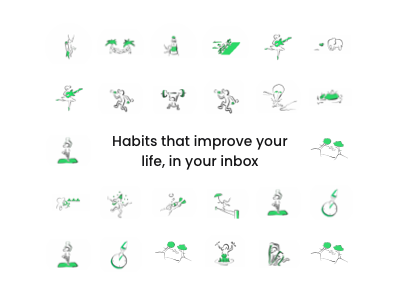
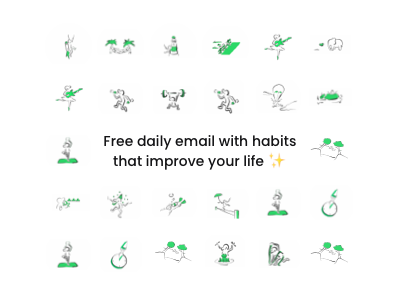
updates

Changed region(s): [[0.24, 0.45, 0.75, 0.57]]

diff --git a/assets/css/main.css b/assets/css/main.css
@@ -28,12 +28,12 @@ body{
 
 ::-moz-selection { /* Code for Firefox */
   color: #FFFFFF;
-  background: #000;
+  background: #2BD867;
 }
 
 ::selection {
   color: #FFFFFF;
-  background: #000;
+  background: #2BD867;
 }
 
 /********************/
@@ -41,18 +41,23 @@ body{
 /********************/
 
 h1{
-	
+	line-height: 1.2;
+	font-size: 2.4rem;
+	text-align: center;
+	font-weight: 300;
+	margin: 10% auto;
 }
 
 p{
 	line-height: 1.5;
-	font-size: 12px;
+	font-size: 1.2rem;
 	margin: 0;
 	padding: 0;
 	position: relative;
 	display: block;
 	width: 100%;
 	color: #757575;
+	text-align: center;
 }
 
 a{
@@ -63,8 +68,20 @@ a{
 	transition: all 0.5s;
 }
 
+a.green{
+	color: #2BD867;
+}
+
+a.green:hover{
+	color: #757575;
+}
+
 a:hover{
 	/*opacity: 0.1;*/
+}
+
+p span{
+	margin: 0 10px;
 }
 
 /******************/
@@ -130,23 +147,19 @@ a:hover{
 
 .grid{
 	/*border: 1px solid blue;*/
-	/*width: 100vw;
-	display: grid;
-  	grid-template-columns: repeat(9, 1fr);
-  	gap: 10px;
-  	grid-auto-rows: minmax(100px, auto);*/
+
   	display: grid;
   	grid-template-columns: repeat(auto-fit, minmax(60px, 1fr));
   	grid-template-rows: repeat(6, 60px);
   	grid-gap: 60px;
   	grid-auto-flow: dense;
-  	overflow: hidden;
 }
 
 .item{
 	/*border: 1px solid red;*/
+
 	transition: all 0.3s;
-	overflow: hidden;
+	/*overflow: hidden;*/
 
 	width: 100%;
 	height: 100%;
@@ -160,7 +173,7 @@ a:hover{
 
 .item:hover{
 	/*border: 1px solid green;*/
-	transform: scale(1.3);
+	transform: scale(1.5);
 	/*filter: grayscale(0);*/
 	z-index: 1;
 
@@ -173,7 +186,7 @@ a:hover{
 
 }
 
-img{
+.item a img{
 	width: 100%;
   height: auto;
   /* Magic! */
@@ -183,8 +196,15 @@ img{
 .container{
 	max-width: 600px;
 	margin: 0 auto;
-	/*padding: 0 20px;*/
 	padding: 32px;
+}
+
+.container img{
+	margin: 4% auto;
+	display: block;
+	width: 130px;
+	height: 130px;
+
 }
 
 footer{
@@ -196,7 +216,8 @@ footer{
 }
 
 footer p{
-	text-align: right;
+	text-align: center;
+	font-size: 12px;
 }
 
 footer a{
@@ -233,41 +254,54 @@ li{
 
 @media (min-width: 640px) {
 	.wrapper{
-	/*width: 100%;*/
-	width: 70vw;
-	max-width: 1006px;
-	height: 100%;
-	max-height: 85vh;
+		/*width: 100%;*/
+		/*width: 70vw;*/
+		width: 50vw;
+		max-width: 700px;
+		min-width: 700px;
+		height: 100%;
+		/*max-height: 85vh;*/
+		max-height: 90vh;
 
-	/*border: 1px solid green;*/
+		/*border: 1px solid green;*/
 
-	align-items: center;
-	justify-content: center;
+		align-items: center;
+		justify-content: center;
 
 
-	overflow: hidden;
-	/*margin: 10vh auto 0;*/
-/*
-	width: 90vw;
-	height: 90vh;
-	margin: 0 auto;
+		overflow: hidden;
+		/*margin: 10vh auto 0;*/
+	/*
+		width: 90vw;
+		height: 90vh;
+		margin: 0 auto;
 
-	border: 1px solid red;
-	position: relative;*/
+		border: 1px solid red;
+		position: relative;*/
 
 	}
 	.grid{
-	/*border: 1px solid blue;*/
-	/*width: 100vw;
-	display: grid;
-  	grid-template-columns: repeat(9, 1fr);
-  	gap: 10px;
-  	grid-auto-rows: minmax(100px, auto);*/
-  	display: grid;
-  	grid-template-columns: repeat(auto-fit, minmax(60px, 1fr));
-  	grid-template-rows: repeat(7, 60px);
-  	grid-gap: 80px;
-  	grid-auto-flow: dense;
-  	overflow: hidden;
+		padding: 20px;
+
+	  	display: grid;
+	  	grid-template-columns: repeat(auto-fit, minmax(60px, 1fr));
+	  	grid-template-rows: repeat(6, 60px);
+	  	grid-gap: 56px;
+	  	grid-auto-flow: dense;
+	  	/*overflow: hidden;*/
+
+
+
+	  	/*display: grid;
+	  	grid-template-columns: repeat(auto-fit, minmax(60px, 1fr));
+	  	grid-template-rows: repeat(7, 60px);
+	  	grid-gap: 80px;
+	  	grid-auto-flow: dense;
+	  	overflow: hidden;*/
 	}
+
+	footer p{
+		text-align: right;
+	}
+
 }

diff --git a/about.html b/about.html
@@ -1,0 +1,67 @@
+<!doctype html>
+
+<html lang="en">
+	<head>
+		<meta charset="utf-8">
+		<meta http-equiv="X-UA-Compatible" 	content="IE=edge">
+		<meta name="viewport" 				content="width=device-width, initial-scale=1">
+		
+		<title>About Happy Habits</title>
+
+		<meta name="description" 			content="Daily habits, inspiration and motivation to improve the quality of your life."/>
+		<meta name="keywords" 				content="habits, happy, daily"/>
+		<meta name="author"                 content="Happy Habits"/> 
+
+		<meta property="og:site_name"   	content="Happy Habits">
+		<meta property="og:url"         	content="assets/img/thumbnail.png">
+		<meta property="og:url"         	content="http://habits.art">
+		<meta property="og:title"       	content="Happy Habits">
+		<meta property="og:description" 	content="Daily habits, inspiration and motivation to improve the quality of your life.">
+		<meta property="og:type"        	content="video.other">
+		<meta property="og:image"       	content="assets/img/thumbnail.png">
+		<meta property="og:image:width"  	content="400">
+		<meta property="og:image:height" 	content="300">
+
+		<!-- FAVICON -->
+		<link rel="apple-touch-icon" sizes="57x57" href="assets/img/favicon/apple-icon-57x57.png">
+		<link rel="apple-touch-icon" sizes="60x60" href="assets/img/favicon/apple-icon-60x60.png">
+		<link rel="apple-touch-icon" sizes="72x72" href="assets/img/favicon/apple-icon-72x72.png">
+		<link rel="apple-touch-icon" sizes="76x76" href="assets/img/favicon/apple-icon-76x76.png">
+		<link rel="apple-touch-icon" sizes="114x114" href="assets/img/favicon/apple-icon-114x114.png">
+		<link rel="apple-touch-icon" sizes="120x120" href="assets/img/favicon/apple-icon-120x120.png">
+		<link rel="apple-touch-icon" sizes="144x144" href="assets/img/favicon/apple-icon-144x144.png">
+		<link rel="apple-touch-icon" sizes="152x152" href="assets/img/favicon/apple-icon-152x152.png">
+		<link rel="apple-touch-icon" sizes="180x180" href="assets/img/favicon/apple-icon-180x180.png">
+		<link rel="icon" type="image/png" sizes="192x192"  href="assets/img/favicon/android-icon-192x192.png">
+		<link rel="icon" type="image/png" sizes="32x32" href="assets/img/favicon/favicon-32x32.png">
+		<link rel="icon" type="image/png" sizes="96x96" href="assets/img/favicon/favicon-96x96.png">
+		<link rel="icon" type="image/png" sizes="16x16" href="assets/img/favicon/favicon-16x16.png">
+		<link rel="manifest" href="assets/img/favicon/manifest.json">
+		<meta name="msapplication-TileColor" content="#ffffff">
+		<meta name="msapplication-TileImage" content="assets/img/favicon/ms-icon-144x144.png">
+		<meta name="theme-color" content="#ffffff">
+
+		<!-- STYLE -->
+		<link rel="stylesheet" type="text/css" href="assets/css/main.css"/>
+	</head>
+
+	<body>
+		<div class="wrapper">
+			
+			<div class="container">
+				<a href="index.html">go back</a>
+				<header>
+					<h1>Simple habits to improve <br/>the quality of your life</h1>
+				</header>
+				<p>It’s the small things done consistently that make a big difference over time. The more you work on your habits the more they will work for you.</p>
+				<br/>
+				<p>Start exercising ⚡</p>
+				<img width="100" height="100" src="assets/img/illustrations/18.png" alt="workout illustrtion"/>
+			</div>
+
+			<footer>
+				<p><a href="mailto:happy@habits.art">Contact</a><span>|</span> © habits.art</p>
+			</footer>
+		</div>
+	</body>
+</html>

diff --git a/index.html b/index.html
@@ -17,8 +17,8 @@
 		<meta property="og:url"         	content="http://habits.art">
 		<meta property="og:title"       	content="Happy Habits">
 		<meta property="og:description" 	content="Daily habits, inspiration and motivation to improve the quality of your life.">
-		<!-- <meta property="og:type"        	content="video.other"> -->
-		<!-- <meta property="og:image"       	content="assets/img/thumbnail.png"> -->
+		<meta property="og:type"        	content="video.other">
+		<meta property="og:image"       	content="assets/img/thumbnail.png">
 		<meta property="og:image:width"  	content="400">
 		<meta property="og:image:height" 	content="300">
 
@@ -216,27 +216,32 @@
 
 
 				<div class="item">
-					<a href="https://www.happyhabits.art/p/keep-calm" target="_blank">
-						<img width="100%" src="assets/img/illustrations/30.png" alt="illustration"/>
+					<a href="https://www.happyhabits.art/p/kiss-many-frogs" target="_blank">
+						<img width="100%" src="assets/img/illustrations/33.png" alt="illustration"/>
 					</a>
 				</div>
 				<div class="item">
-					<a href="https://www.happyhabits.art/p/laugh" target="_blank">
-						<img width="100%" src="assets/img/illustrations/31.png" alt="illustration"/>
+					<a href="https://www.happyhabits.art/p/greener-grass" target="_blank">
+						<img width="100%" src="assets/img/illustrations/34.png" alt="illustration"/>
 					</a>
 				</div>
 				<div class="item">
-					<a href="https://www.happyhabits.art/p/m-and-m-test" target="_blank">
-						<img width="100%" src="assets/img/illustrations/32.png" alt="illustration"/>
+					<a href="https://www.happyhabits.art/p/make-your-move" target="_blank">
+						<img width="100%" src="assets/img/illustrations/35.png" alt="illustration"/>
+					</a>
+				</div>
+
+				<div class="item">
+					<a href="https://www.happyhabits.art/p/eat-real-food" target="_blank">
+						<img width="100%" src="assets/img/illustrations/36.png" alt="illustration"/>
 					</a>
 				</div>
 
 
-				
 			</div> <!-- end grid-->
 
 			<footer>
-				<p><a href="/about">About </a> <a href="mailto:happy@habits.art">Contact </a>| © habits.art</p>
+				<p><a class="green" href="https://happyhabits.art" target="_blank">All habits</a> <a href="about.html">About </a> <a href="mailto:happy@habits.art">Contact</a><span>|</span> © habits.art</p>
 			</footer>
 		</div>
 	</body>
